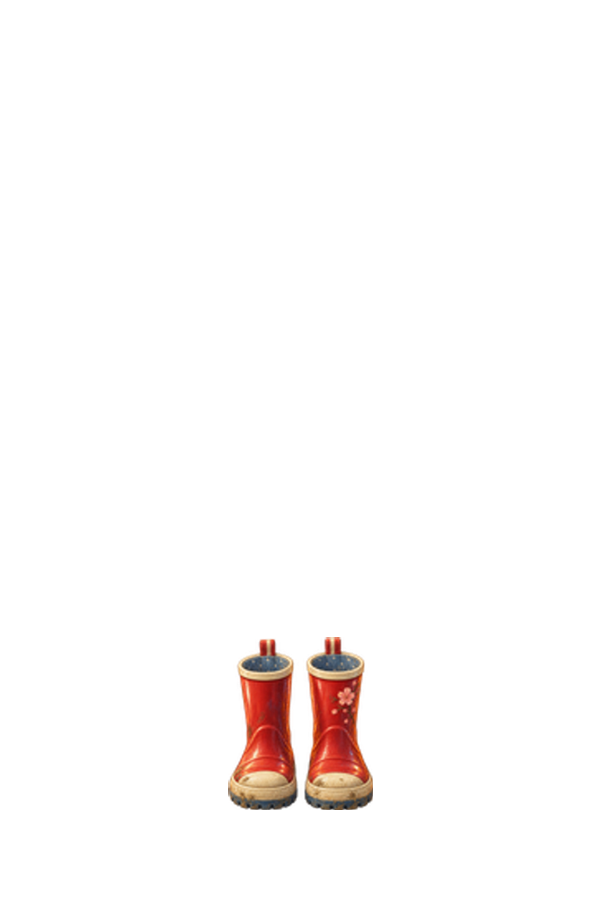
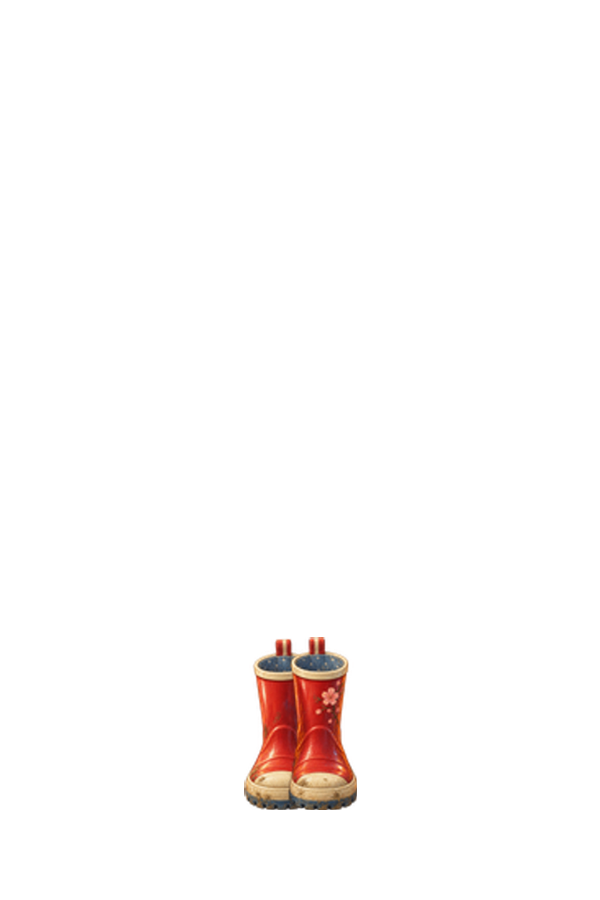
Regular rounded-rect doll screen with round travel-style buttons; close bare toe/ankle gap between shoe pairs
- Doll stage and its destination backdrop were an arch/dome shape (border-radius 150px 150px 28px 28px); flattened both to a normal rounded rectangle.
- Category rail icons get a round physical-button look (raised circle, subtle depth shadow, coral fill when active) instead of a bare emoji, per "look like real travel buttons".
- Every shoe/boot pair had a gap baked into the artwork between the left and right shoe that was wider than the body's actual ankle gap, leaving a visible strip of bare toe/ankle between them. scripts/fix-shoe-gap.mjs finds each pair's own gap near the sole and pulls both halves inward to close it — no rescaling, so shoe shape is untouched, just repositioned.

Changed region(s): [[0.36, 0.6844, 0.63, 0.9022]]

diff --git a/src/little-jetter.css b/src/little-jetter.css
@@ -301,15 +301,15 @@
 .little-closet-heading{display:flex;align-items:end;justify-content:space-between;gap:10px}.little-closet-heading p{margin:0}.little-closet-heading strong{font:600 18px 'Fraunces',serif;color:var(--coral)}
 .little-character-drawers{display:grid;gap:5px;margin:10px 0}.little-character-drawers details{border:1px solid rgba(24,59,72,.18);border-radius:8px;overflow:hidden;background:#fffaf0}.little-character-drawers summary{min-height:36px;padding:5px 8px;display:grid;grid-template-columns:27px 1fr auto;align-items:center;gap:7px;cursor:pointer;list-style:none}.little-character-drawers summary::-webkit-details-marker{display:none}.little-character-drawers summary>span{display:grid;place-items:center;width:25px;height:25px;border-radius:50%;background:var(--ink);color:white;font-size:8px}.little-character-drawers summary strong{font:600 13px 'Fraunces',serif}.little-character-drawers summary b{font-size:6px;text-transform:uppercase;letter-spacing:.08em;color:var(--coral)}.little-character-drawers details[open] summary{border-bottom:1px solid rgba(24,59,72,.12);background:#f4dfba}.little-character-options{display:grid;gap:6px;padding:8px}.little-style-options{grid-template-columns:1fr 1fr}.little-style-options button{min-height:32px;border:1px solid rgba(24,59,72,.18);border-radius:7px;background:white;color:var(--ink);font-size:9px;font-weight:800;text-transform:uppercase}.little-swatch-options{grid-template-columns:repeat(6,1fr)}.little-swatch-options button{position:relative;aspect-ratio:1;border:3px solid white;border-radius:50%;background:var(--choice-color);box-shadow:0 0 0 1px rgba(24,59,72,.24),0 2px 4px rgba(24,59,72,.22),inset 0 -3px 5px rgba(0,0,0,.18),inset 0 2px 3px rgba(255,255,255,.35);cursor:pointer;overflow:hidden}.little-swatch-options button::before{content:'';position:absolute;inset:0;border-radius:inherit;background:radial-gradient(circle at 32% 28%,rgba(255,255,255,.85) 0%,rgba(255,255,255,.35) 22%,rgba(255,255,255,0) 52%),radial-gradient(circle at 70% 78%,rgba(0,0,0,.14) 0%,rgba(0,0,0,0) 45%);pointer-events:none}.little-character-options button[aria-pressed='true']{outline:3px solid var(--coral);outline-offset:1px}.little-hairstyle-options{grid-template-columns:repeat(2,minmax(0,1fr))}.little-hairstyle-options button{min-height:62px;border:1px solid rgba(24,59,72,.18);border-radius:10px;background:white;color:var(--ink);display:flex;align-items:center;gap:8px;padding:7px;text-align:left;cursor:pointer}.little-hairstyle-options button strong{font:600 10px 'Fraunces',serif}.little-hair-icon{flex:0 0 44px;width:44px;height:44px;border-radius:50%;object-fit:cover;object-position:50% 38%;background:#fdf3e2;box-shadow:0 0 0 1px rgba(24,59,72,.18)}
 .little-head-gallery{display:grid;gap:14px;padding:8px 8px 4px}.little-head-gallery-group{display:grid;gap:6px}.little-head-gallery-group>small{font:800 9px 'DM Sans',sans-serif;text-transform:uppercase;letter-spacing:.1em;color:var(--coral)}.little-head-gallery .little-character-options{padding:0}.little-head-gallery .little-hairstyle-options{grid-template-columns:repeat(3,minmax(0,1fr))}.little-head-gallery .little-hairstyle-options button{flex-direction:column;align-items:center;gap:4px;min-height:0;padding:6px 4px;text-align:center}.little-head-gallery .little-hairstyle-options button strong{font-size:7px;text-transform:capitalize;letter-spacing:.02em}.little-head-thumb{position:relative;display:block;flex:0 0 auto;width:52px;height:52px;border-radius:50%;overflow:hidden;background:#fdf3e2;box-shadow:0 0 0 1px rgba(24,59,72,.18)}.little-head-thumb img{position:absolute;top:0;left:0;max-width:none}
-.little-avatar.little-doll-stage{position:relative!important;display:block!important;min-height:0!important;height:520px;margin:8px 0 12px;padding:0!important;overflow:hidden;border:1px solid rgba(24,59,72,.18);border-radius:150px 150px 28px 28px;background:radial-gradient(circle at 50% 25%,#fffdf8 0 28%,#d9f1e9 29% 64%,#c6e6dc 65%);isolation:isolate}
+.little-avatar.little-doll-stage{position:relative!important;display:block!important;min-height:0!important;height:520px;margin:8px 0 12px;padding:0!important;overflow:hidden;border:1px solid rgba(24,59,72,.18);border-radius:22px;background:radial-gradient(circle at 50% 25%,#fffdf8 0 28%,#d9f1e9 29% 64%,#c6e6dc 65%);isolation:isolate}
 .little-doll-stage:has(.little-aligned-doll)::before{display:none}.little-aligned-doll{position:absolute;z-index:3;inset:0;width:100%;height:100%;display:block;filter:drop-shadow(0 8px 6px rgba(24,59,72,.13));animation:little-doll-arrive .55s cubic-bezier(.2,1.4,.4,1) both}.little-aligned-doll [data-layer]{transform-origin:center;animation:little-choice-pop .42s cubic-bezier(.2,1.4,.4,1) both}
 .little-item-doll-preview{position:relative!important;display:block!important;width:100%!important;height:104px!important;overflow:hidden;border-radius:9px;background:radial-gradient(circle at 50% 32%,#fff 0 25%,#f4e5ca 76%,#ead4ad 100%)!important;filter:none!important}.little-item-doll-preview .little-aligned-doll{position:absolute!important;inset:-7% 0 -2%!important;width:100%!important;height:112%!important;filter:drop-shadow(0 5px 4px rgba(24,59,72,.13));animation:none!important}.little-item-doll-preview .little-aligned-doll [data-layer]{animation:none!important}.little-item-row button:hover .little-item-doll-preview{transform:translateY(-4px) scale(1.03)}
 .little-garment-preview{position:relative;display:block;overflow:hidden;background:radial-gradient(circle at 50% 45%,#fff 0 24%,#fff9ec 72%,#f1dfbf 100%);border-radius:10px;box-shadow:inset 0 0 0 1px rgba(23,58,71,.08);filter:drop-shadow(0 6px 6px rgba(24,59,72,.14))!important}.little-garment-preview .little-aligned-doll{position:absolute!important;inset:0!important;width:100%!important;height:100%!important;animation:none!important;filter:drop-shadow(0 4px 4px rgba(24,59,72,.16))}.little-garment-canvas>g>ellipse,.little-garment-canvas [data-layer]{display:none}.little-garment-canvas[data-only-layer="top"] [data-layer="top"],.little-garment-canvas[data-only-layer="bottom"] [data-layer="bottom"],.little-garment-canvas[data-only-layer="outerwear"] [data-layer="outerwear"],.little-garment-canvas[data-only-layer="shoes"] [data-layer="shoes"],.little-garment-canvas[data-only-layer="accessory"] [data-layer="accessory"]{display:block}.little-garment-canvas [data-layer]{animation:none!important}.little-item-row button:hover .little-garment-preview{transform:translateY(-5px) rotate(-2deg) scale(1.05)}
-.little-doll-destination{position:absolute;z-index:0;inset:9px;border-radius:44% 44% 22px 22px;overflow:hidden;background:linear-gradient(180deg,color-mix(in srgb,var(--scene-color) 30%,#dff4f1) 0 48%,#f5d89c 49% 100%);box-shadow:inset 0 0 0 4px rgba(255,255,255,.72)}.little-doll-destination::before{content:"";position:absolute;left:-8%;right:-8%;bottom:24%;height:35%;background:linear-gradient(135deg,transparent 0 25%,rgba(255,255,255,.8) 26% 42%,transparent 43%),linear-gradient(45deg,transparent 0 34%,color-mix(in srgb,var(--scene-color) 72%,#173a47) 35% 55%,transparent 56%);opacity:.75}.little-doll-destination::after{content:"";position:absolute;inset:0;background:radial-gradient(circle at 18% 20%,#fff 0 3px,transparent 4px),radial-gradient(circle at 78% 27%,#fff 0 4px,transparent 5px),linear-gradient(90deg,transparent 12%,rgba(255,255,255,.25) 13% 14%,transparent 15% 78%,rgba(255,255,255,.25) 79% 80%,transparent 81%)}.little-doll-destination>span{position:absolute;z-index:2;left:12px;top:12px;padding:5px 9px;border:1px solid rgba(23,58,71,.25);border-radius:999px;background:rgba(255,248,232,.84);color:#173a47;font:700 8px 'DM Sans',sans-serif;letter-spacing:.12em;text-transform:uppercase}.little-doll-destination>i,.little-doll-destination>b{position:absolute;z-index:1;top:22%;width:16px;height:52%;background:color-mix(in srgb,var(--scene-color) 68%,#173a47);box-shadow:22px 14px 0 color-mix(in srgb,var(--scene-color) 48%,#173a47),44px -9px 0 color-mix(in srgb,var(--scene-color) 58%,#173a47)}.little-doll-destination>i{left:10%}.little-doll-destination>b{right:19%;transform:scaleX(-1)}.little-item-row button{position:relative}.little-item-row button[aria-pressed='true']::after{content:'✓';position:absolute;z-index:5;right:7px;top:7px;width:24px;height:24px;display:grid;place-items:center;border-radius:50%;background:#e85849;color:white;font-weight:900;box-shadow:0 2px 0 #173a47}.little-doll-stage .little-aligned-doll{z-index:3}
+.little-doll-destination{position:absolute;z-index:0;inset:9px;border-radius:18px;overflow:hidden;background:linear-gradient(180deg,color-mix(in srgb,var(--scene-color) 30%,#dff4f1) 0 48%,#f5d89c 49% 100%);box-shadow:inset 0 0 0 4px rgba(255,255,255,.72)}.little-doll-destination::before{content:"";position:absolute;left:-8%;right:-8%;bottom:24%;height:35%;background:linear-gradient(135deg,transparent 0 25%,rgba(255,255,255,.8) 26% 42%,transparent 43%),linear-gradient(45deg,transparent 0 34%,color-mix(in srgb,var(--scene-color) 72%,#173a47) 35% 55%,transparent 56%);opacity:.75}.little-doll-destination::after{content:"";position:absolute;inset:0;background:radial-gradient(circle at 18% 20%,#fff 0 3px,transparent 4px),radial-gradient(circle at 78% 27%,#fff 0 4px,transparent 5px),linear-gradient(90deg,transparent 12%,rgba(255,255,255,.25) 13% 14%,transparent 15% 78%,rgba(255,255,255,.25) 79% 80%,transparent 81%)}.little-doll-destination>span{position:absolute;z-index:2;left:12px;top:12px;padding:5px 9px;border:1px solid rgba(23,58,71,.25);border-radius:999px;background:rgba(255,248,232,.84);color:#173a47;font:700 8px 'DM Sans',sans-serif;letter-spacing:.12em;text-transform:uppercase}.little-doll-destination>i,.little-doll-destination>b{position:absolute;z-index:1;top:22%;width:16px;height:52%;background:color-mix(in srgb,var(--scene-color) 68%,#173a47);box-shadow:22px 14px 0 color-mix(in srgb,var(--scene-color) 48%,#173a47),44px -9px 0 color-mix(in srgb,var(--scene-color) 58%,#173a47)}.little-doll-destination>i{left:10%}.little-doll-destination>b{right:19%;transform:scaleX(-1)}.little-item-row button{position:relative}.little-item-row button[aria-pressed='true']::after{content:'✓';position:absolute;z-index:5;right:7px;top:7px;width:24px;height:24px;display:grid;place-items:center;border-radius:50%;background:#e85849;color:white;font-weight:900;box-shadow:0 2px 0 #173a47}.little-doll-stage .little-aligned-doll{z-index:3}
 .little-doll-destination.scene-tokyo{background:url('/little-jetter/tokyo-doll-backdrop.png') center/cover no-repeat;box-shadow:inset 0 0 0 4px rgba(255,255,255,.8),0 12px 30px rgba(23,58,71,.16)}.little-doll-destination.scene-tokyo::before,.little-doll-destination.scene-tokyo::after,.little-doll-destination.scene-tokyo>i,.little-doll-destination.scene-tokyo>b{display:none}.little-avatar .little-aligned-doll{animation:little-doll-dress .12s cubic-bezier(.2,1.45,.4,1) both}@keyframes little-doll-dress{0%{transform:scale(1)}35%{transform:scale(1.05)}68%{transform:scale(.98)}100%{transform:scale(1)}}
 .little-aligned-doll [stroke="#173a47"]{stroke:rgba(37,65,72,.28)!important;stroke-width:2.2!important;stroke-linejoin:round;stroke-linecap:round}.little-aligned-doll [data-layer="base"]>path:first-child{fill:url(#skinGlow)!important}.little-aligned-doll [data-layer="hair"]>path:first-child,.little-aligned-doll [data-layer="hair"]>circle{fill:url(#hairShade)!important}.little-aligned-doll [data-layer="bottom"]>path:first-child{fill:url(#bottomShade)!important}.little-aligned-doll [data-layer="shoes"]>path{fill:url(#shoeShade)!important}.little-aligned-doll [data-layer]{filter:drop-shadow(0 3px 5px rgba(23,58,71,.14))}.little-aligned-doll [data-layer="base"] circle[fill="white"]{filter:drop-shadow(0 1px 1px rgba(23,58,71,.12))}.little-avatar{aspect-ratio:2/3}.little-avatar .little-aligned-doll{object-fit:contain}
 .little-doll-destination{z-index:1!important}.little-doll-destination>img{position:absolute;z-index:0;inset:0;width:100%;height:100%;display:block;object-fit:cover;object-position:center}.little-doll-destination.scene-tokyo{background:#dff4f1}.little-doll-stage::after{z-index:2}.little-doll-stage .little-aligned-doll{z-index:3}
-@media(max-width:680px){.little-doll-destination{display:block!important;inset:4px!important;opacity:1!important;border-radius:42% 42% 20px 20px}.little-doll-destination>img{min-width:100%;min-height:100%}}
+@media(max-width:680px){.little-doll-destination{display:block!important;inset:4px!important;opacity:1!important;border-radius:16px}.little-doll-destination>img{min-width:100%;min-height:100%}}
 .little-look-actions{display:flex!important;flex-wrap:wrap;justify-content:flex-end;gap:6px}.little-look-actions button{min-height:44px!important;animation:none!important}.little-look-actions button:nth-child(2){background:#fff8e8;color:#173a47;border:1px solid rgba(255,255,255,.5)}.little-look-actions button:nth-child(3){background:#e85849;color:white}.little-color-swatches{display:flex!important;align-items:center;gap:8px;padding:9px 2px 2px}.little-color-swatches small{margin-right:auto;font-size:8px;text-transform:uppercase;letter-spacing:.08em;color:#6c7778}.little-color-swatches button{width:34px;height:34px;min-height:34px;border-radius:50%;border:3px solid white;background:var(--swatch);box-shadow:0 0 0 1px rgba(23,58,71,.22);cursor:pointer}.little-color-swatches button[aria-pressed='true']{box-shadow:0 0 0 3px #e85849;transform:scale(1.08)}.little-doll-stage.is-drop-active{box-shadow:0 0 0 5px #f4c665,0 18px 42px rgba(23,58,71,.2)!important}.little-drop-message{position:absolute;z-index:10;left:50%;bottom:16px;transform:translateX(-50%);padding:8px 13px;border-radius:999px;background:#173a47;color:white;font-size:10px;font-weight:800;white-space:nowrap;pointer-events:none}.little-my-looks>div{display:grid;grid-template-columns:repeat(2,1fr);gap:8px}.little-my-looks>div>button{min-height:52px;padding:9px;text-align:left;border:1px solid rgba(23,58,71,.18);background:#fffaf0;color:#173a47;cursor:pointer}.little-my-looks>div>button strong,.little-my-looks>div>button small{display:block}.little-my-looks>div>button small{margin-top:3px;color:#6c7778}.little-item-row button[draggable='true']{touch-action:pan-y}.little-item-row button[draggable='true']:active{cursor:grabbing;transform:scale(.97)}
 @media(max-width:680px){.little-surprise-bar{display:block!important}.little-look-actions{display:grid!important;grid-template-columns:repeat(3,1fr);margin-top:10px}.little-look-actions button{width:auto!important;padding:5px!important;font-size:8px!important}.little-dress-layout details.little-task-drawer:not([open])>.little-item-row{display:none!important}.little-dress-layout .little-item-row{position:relative;display:flex!important;overflow-x:auto;scroll-snap-type:x mandatory;padding:4px 3px 16px;gap:9px;scrollbar-width:auto;scrollbar-color:var(--coral) rgba(23,58,71,.14)}.little-dress-layout .little-item-row::-webkit-scrollbar{height:7px}.little-dress-layout .little-item-row::-webkit-scrollbar-track{background:rgba(23,58,71,.14);border-radius:99px}.little-dress-layout .little-item-row::-webkit-scrollbar-thumb{background:var(--coral);border-radius:99px;border:1px solid rgba(255,255,255,.5)}.little-dress-layout .little-item-row>button{flex:0 0 108px;scroll-snap-align:start}.little-dress-layout .little-task-drawer>div:has(.little-item-row){position:relative}.little-dress-layout .little-task-drawer>div:has(.little-item-row)::after{content:'';position:absolute;z-index:2;top:4px;bottom:16px;right:0;width:28px;background:linear-gradient(90deg,transparent,#fffaf0 78%);pointer-events:none}.little-color-swatches{flex-wrap:wrap}.little-color-swatches small{width:100%;flex-basis:100%}.little-my-looks>div{grid-template-columns:1fr}}
 .little-jetter-shell [hidden]{display:none!important}.little-tab-view:not([hidden]){animation:little-tab-enter .25s ease-out both}@keyframes little-tab-enter{from{opacity:0;transform:translateY(10px)}to{opacity:1;transform:none}}.little-route{grid-template-columns:repeat(3,minmax(0,1fr))}.little-route button{appearance:none;border:0;background:transparent;color:var(--ink-soft);text-transform:uppercase;letter-spacing:.12em;font-size:9px;display:flex;align-items:center;gap:7px;cursor:pointer;text-align:left}.little-route button.is-current{width:max-content;padding:6px 12px 6px 7px;border-radius:999px;background:#e85849;color:white;font-weight:800;box-shadow:0 5px 14px rgba(232,88,73,.28)}.little-route button.is-current span{background:white;color:#e85849;border-color:white}.little-route-adventure{grid-template-columns:repeat(3,1fr);gap:8px;padding:9px}.little-route-adventure button{min-height:48px;border:1px solid rgba(23,58,71,.14);background:#fff8e8;color:#173a47;display:flex;align-items:center;justify-content:center;gap:8px;cursor:pointer;text-transform:capitalize}.little-route-adventure button span{flex:0 0 30px}.little-route-adventure button strong{font-size:11px}.little-route-adventure button.is-current{background:#e85849;color:white;border-color:#e85849;box-shadow:0 5px 14px rgba(232,88,73,.25)}.little-route-adventure button.is-current span{background:white;color:#e85849}.little-item-row button[aria-pressed='true']{box-shadow:0 0 0 4px rgba(232,88,73,.18),0 8px 18px rgba(23,58,71,.12)!important;transform:scale(1.02)}
@@ -353,13 +353,13 @@
 .little-side-rail{flex:0 0 50px;display:flex;flex-direction:column;align-items:center;justify-content:center;gap:7px;overflow-y:auto}
 .little-rail-divider{flex:none;width:26px;height:1px;background:rgba(24,59,72,.18)}
 .little-category-rail{flex:none;display:flex;flex-direction:column;gap:7px}
-.little-category-rail-btn{position:relative;flex:none;border:0;background:none;box-shadow:none;display:flex;flex-direction:column;align-items:center;justify-content:center;gap:1px;cursor:pointer;transition:transform .15s ease}
-.little-category-rail-btn span{font-size:25px;line-height:1;filter:drop-shadow(0 1px 1px rgba(24,59,72,.18))}
+.little-category-rail-btn{position:relative;flex:none;border:0;background:none;box-shadow:none;display:flex;flex-direction:column;align-items:center;justify-content:center;gap:3px;cursor:pointer;transition:transform .15s ease}
+.little-category-rail-btn span{display:grid;place-items:center;width:36px;height:36px;border-radius:50%;background:radial-gradient(circle at 34% 28%,#fffdf5 0%,#f7e6c4 55%,#e9c98f 100%);border:1px solid rgba(24,59,72,.2);box-shadow:0 2px 0 rgba(24,59,72,.22),inset 0 1px 1px rgba(255,255,255,.7),0 2px 4px rgba(24,59,72,.18);font-size:18px;line-height:1;transition:box-shadow .15s ease,transform .15s ease}
 .little-category-rail-btn small{font-size:6px;font-weight:800;letter-spacing:.01em;color:var(--ink-soft);text-transform:uppercase;text-align:center;line-height:1.1}
-.little-category-rail-btn:hover,.little-category-rail-btn:active{transform:scale(1.12)}
-.little-category-rail-btn.is-active span{filter:drop-shadow(0 0 0 transparent);transform:scale(1.15)}
+.little-category-rail-btn:hover span,.little-category-rail-btn:active span{transform:scale(1.1)}
+.little-category-rail-btn.is-active span{background:radial-gradient(circle at 34% 28%,#fff6e2 0%,var(--coral) 100%);border-color:var(--coral);box-shadow:0 2px 0 rgba(191,64,49,.4),inset 0 1px 1px rgba(255,255,255,.5),0 2px 6px rgba(232,88,73,.35);transform:scale(1.12)}
 .little-category-rail-btn.is-active small{color:var(--coral)}
-@media(max-width:520px){.little-side-rail{flex-basis:40px;gap:5px}.little-category-rail{gap:5px}.little-category-rail-btn span{font-size:19px}.little-category-rail-btn small{font-size:5px}}
+@media(max-width:520px){.little-side-rail{flex-basis:42px;gap:5px}.little-category-rail{gap:5px}.little-category-rail-btn span{width:30px;height:30px;font-size:15px}.little-category-rail-btn small{font-size:5px}}
 .little-category-backdrop{position:fixed;inset:0;z-index:115;display:flex;align-items:flex-end;background:rgba(23,58,71,.22);animation:little-sheet-fade .2s ease both}.little-category-sheet{width:100%;max-height:64vh;overflow-y:auto;background:#fffaf0;border-radius:20px 20px 0 0;border:1px solid rgba(24,59,72,.18);box-shadow:0 -12px 30px rgba(24,59,72,.22);padding:10px 16px 18px;animation:little-sheet-up .25s cubic-bezier(.2,1,.3,1) both}.little-category-sheet-handle{width:40px;height:5px;border-radius:99px;background:rgba(24,59,72,.2);margin:2px auto 10px}.little-category-sheet-head{display:flex;align-items:center;justify-content:space-between;margin-bottom:10px}.little-category-sheet-head strong{font:600 18px 'Fraunces',serif;color:var(--ink)}.little-category-sheet .little-item-row{display:grid;grid-template-columns:repeat(3,1fr);gap:8px}@keyframes little-sheet-fade{from{opacity:0}to{opacity:1}}@keyframes little-sheet-up{from{transform:translateY(100%)}to{transform:translateY(0)}}
 @media(max-width:520px){.little-category-sheet .little-item-row{grid-template-columns:repeat(3,1fr)}.little-category-dot{width:36px;height:36px;font-size:16px}}
 .little-dress-sparkles{position:absolute;z-index:8;left:50%;top:42%;width:1px;height:1px;pointer-events:none}.little-dress-sparkles i{--angle:calc(var(--spark) * 36deg);position:absolute;color:#fff6b5;font-style:normal;font-size:16px;text-shadow:0 1px 0 #e8aa31,0 0 8px white;opacity:0;animation:little-chest-spark .3s cubic-bezier(.18,.75,.25,1) both;animation-delay:calc(var(--spark) * 8ms)}@keyframes little-chest-spark{0%{opacity:0;transform:rotate(var(--angle)) translateX(4px) scale(.25)}35%{opacity:1}100%{opacity:0;transform:rotate(var(--angle)) translateX(72px) scale(1.15)}}
